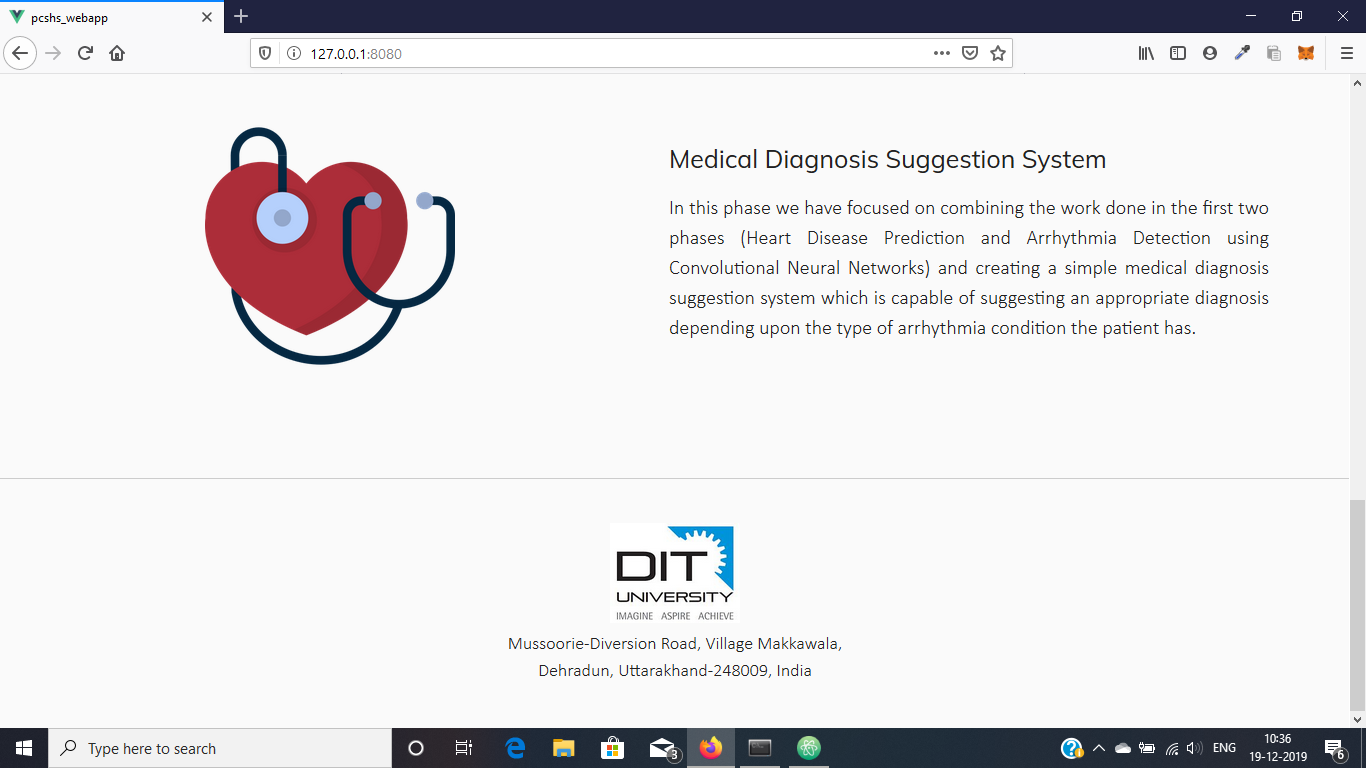
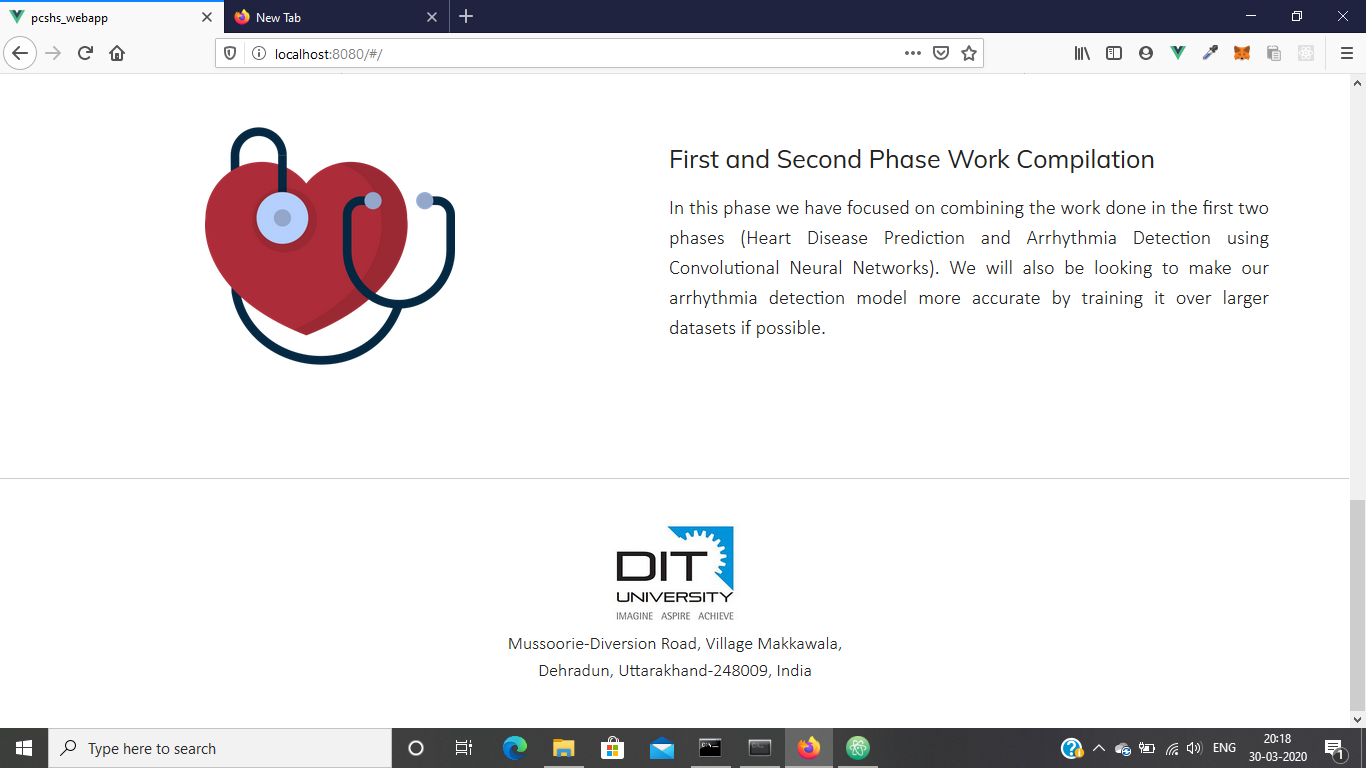
Final Commit

diff --git a/src/components/MedicalDiagnosis.vue b/src/components/MedicalDiagnosis.vue
@@ -10,16 +10,18 @@
             <div class="overline mb-4">DIT UNIVERSITY</div>
             <v-list-item-title class="headline mb-1"><span style="font-family: Muli, sans-serif;">Patient Centric Smart HealthCare System</span></v-list-item-title>
             <v-list-item-subtitle><span style="font-family: Muli, sans-serif;">Final Report</span></v-list-item-subtitle>
-            <hr/>
+            <hr class="hr_line"/>
             <ul class="final_data">
               <li>Arrhythmia Check : <b> {{ arrhythmia_check }} </b> </li>
               <li>Arrhythmia Class and Graph :
                 <line-chart
-                  :chartdata="chardata"
+                  class="chart_arrhythmia"
+                  v-if="fetched"
+                  :chartdata="chartdata"
                   :options="options"/>
-                {{ arrhythmia_result }}
               </li>
             </ul>
+            <h1> {{ arrhythmia_result }} </h1>
           </v-list-item-content>
         </v-list-item>
       </v-card>
@@ -28,18 +30,21 @@
 </template>
 
 <script>
+  import axios from 'axios';
   import LineChart from './LineChart.vue';
 
   export default {
-    name: 'Medical Diagnosis',
+    name: 'MedicalDiagnosis',
 
     components: { LineChart },
 
     data: () => ({
       arrhythmia_check : 'No Result',
-      arrythmia_result : 'No Prediction',
+      arrhythmia_result : 'No Prediction',
       signal_label: [],
+      ecg_signal: [],
       chartdata: null,
+      fetched: false,
       options: {
         responsive: true,
         maintainAspectRatio: false,
@@ -57,22 +62,57 @@
           this.signal_label.push(i);
         }
       },
-      renderChart() {
-        this.chartdata = {
-          labels: this.signal_label,
-          datasets: [{
-            label: 'ECG Single Lead Reading',
-            borderColor: '#F0134D',
-            borderWidth: 1,
-            pointBackgroundColor: '#F0134D',
-            fill: false,
-            data: this.ecg_signal.slice(0, 1000)
-          }]
-        }
+      getAlldata() {
+        axios.get('http://localhost:8000/pcshs_app/get_alldata')
+          .then((response) => {
+            console.log(response);
+            this.arrhythmia_check = response.data.arrhythmia_check;
+            this.arrhythmia_result = response.data.arrhythmia_result;
+            this.ecg_signal = response.data.ecg_signal;
+            this.createLabels();
+            this.chartdata = {
+              labels: this.signal_label,
+              datasets: [{
+                label: 'ECG Single Lead Reading',
+                borderColor: '#F0134D',
+                borderWidth: 1,
+                pointBackgroundColor: '#F0134D',
+                pointBorderColor: '#F0134D',
+                fill: false,
+                data: this.ecg_signal.slice(0, 1000)
+              }]
+            }
+            this.fetched = true
+          }).catch(function() {
+            console.log('Error');
+        });
       }
+    },
+    beforeMount() {
+      this.getAlldata();
     }
   }
 </script>
 
-<style>
+<style scoped>
+.center_div {
+  margin-top: 15px;
+}
+.hr_line {
+  margin-top: 5px;
+  margin-bottom: 5px;
+}
+.final_data li {
+  list-style-type: none;
+  margin-top: 10px;
+}
+.chart_arrhythmia {
+  margin-top: 10px;
+}
+h1 {
+  font-family: 'Muli', sans-serif;
+  font-size: 18px;
+  text-align: center;
+  margin-top: 20px;
+}
 </style>

diff --git a/src/components/HomePage.vue b/src/components/HomePage.vue
@@ -78,10 +78,10 @@
       prt2_desc: 'In this phase we have developed a machine learning model using Convolutional Neural Networks, which is capable of ' +
                  'predicting the type of arrhythmia(irregular heart rhythms) condition the patient has, using the ECG(Electrocardiogram) ' +
                  'signals as an input.',
-      prt3_head: 'Medical Diagnosis Suggestion',
+      prt3_head: 'First and Second Phase Work Compilation',
       prt3_desc: 'In this phase we have focused on combining the work done in the first two phases (Heart Disease Prediction and Arrhythmia ' +
                  'Detection using Convolutional Neural Networks). We will also be looking to make our arrhythmia detection model more accurate ' +
-                 'by training it over larger datasets if possible. In the end we will also be suggesting the patient some possible diagnosis.',
+                 'by training it over larger datasets if possible.',
       dit_univ_loc: 'Mussoorie-Diversion Road, Village Makkawala, Dehradun, Uttarakhand-248009, India'
     })
   };

diff --git a/src/components/TestPage.vue b/src/components/TestPage.vue
@@ -4,7 +4,7 @@
     <ul>
       <li> Heart/Cardiovascular Disease Prediction </li>
       <li> Heart Arrhythmia Detection using Electrocardiogram Signals </li>
-      <li> Medical Diagnosis Suggestions </li>
+      <li> First and Second Phase Work Compilation </li>
     </ul>
     <div class="cnt_button"><v-btn :to="`${'/test/heartdisease'}`" class="ma-2" tile outlined> START TEST </v-btn></div>
   </div>

diff --git a/src/router/index.js b/src/router/index.js
@@ -28,12 +28,14 @@ export default new Router({
     {
       path: '/test/arrhythmia',
       name: 'ArrhythmiaTestPage',
-      component: ArrhythmiaTestPage
+      component: ArrhythmiaTestPage,
+      props: true
     },
     {
       path: '/test/medicaldiagnosis',
       name: 'MedicalDiagnosis',
-      component: MedicalDiagnosis
+      component: MedicalDiagnosis,
+      props: true
     }
   ]
 })

diff --git a/src/components/ArrhythmiaTestPage.vue b/src/components/ArrhythmiaTestPage.vue
@@ -124,6 +124,7 @@
         ).then((response) => {
           console.log(response);
           this.ecg_signal = response.data.ecg_signal;
+          this.final_result = response.data.arrhythmia_result;
           if(this.label_create == true) {
             this.createLabels();
             this.label_create = false
